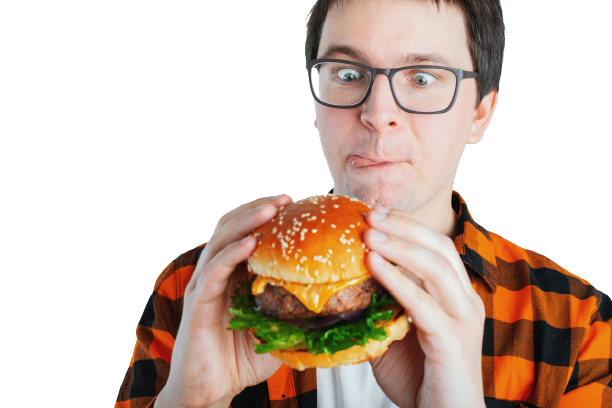
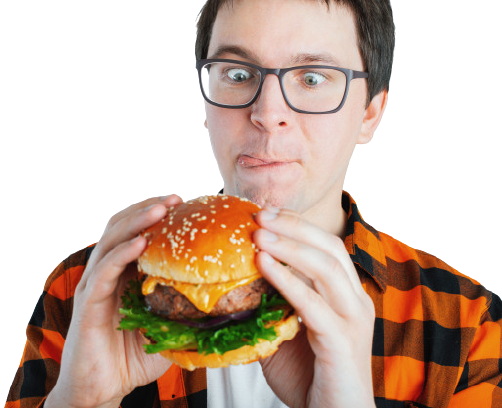
first section done

diff --git a/style.css b/style.css
@@ -13,24 +13,30 @@ p{
     width: 1170px;
     margin: 50px auto 0px auto;
     display: flex;
+    justify-content: space-between;
 
 }
 
 .first-box{
-    width: 45%;
+    width: 50%;
+
 }
 
 .img{
     background-image: url(img/Group.png);
     background-size: cover;
     background-repeat: no-repeat;
-    background-position: center;
+    width: 50%;
+}
+
+.img img{
+    height: 100%;
 }
 
 
 .first-box h1 {
     color: #575757;
-    font-size: 50px;
+    font-size: 55px;
     padding-top: 90px;
     text-transform: capitalize;
 }
@@ -38,4 +44,22 @@ p{
 .first-box span{
     text-transform: uppercase;
     color:#10AEFA;
+}
+
+.first-box p {
+    color: #828282;
+    margin: 30px 0px;
+    font-size: 20px;
+}
+
+.first-box a {
+    background: linear-gradient(90deg, #fb994c , tomato);
+    text-decoration: none;
+    padding: 20px 35px;
+    border-radius: 35px;
+    color: white;
+    font-family: 'Poppins';
+    display: inline-block;
+    font-size: 18px;
+    margin-bottom: 60px;
 }

diff --git a/index.html b/index.html
@@ -17,7 +17,7 @@
 
                 <h1>become a <span>boss</span>, with your own test with food park</h1>
 
-                <p>You don't have to care about your diet because we are here to serve you 24/7!</p>
+                <p>You don't have to care about your diet because we are here to serve you healthy food in 24/7!</p>
 
                 <a href="#">Order Food</a>
 
